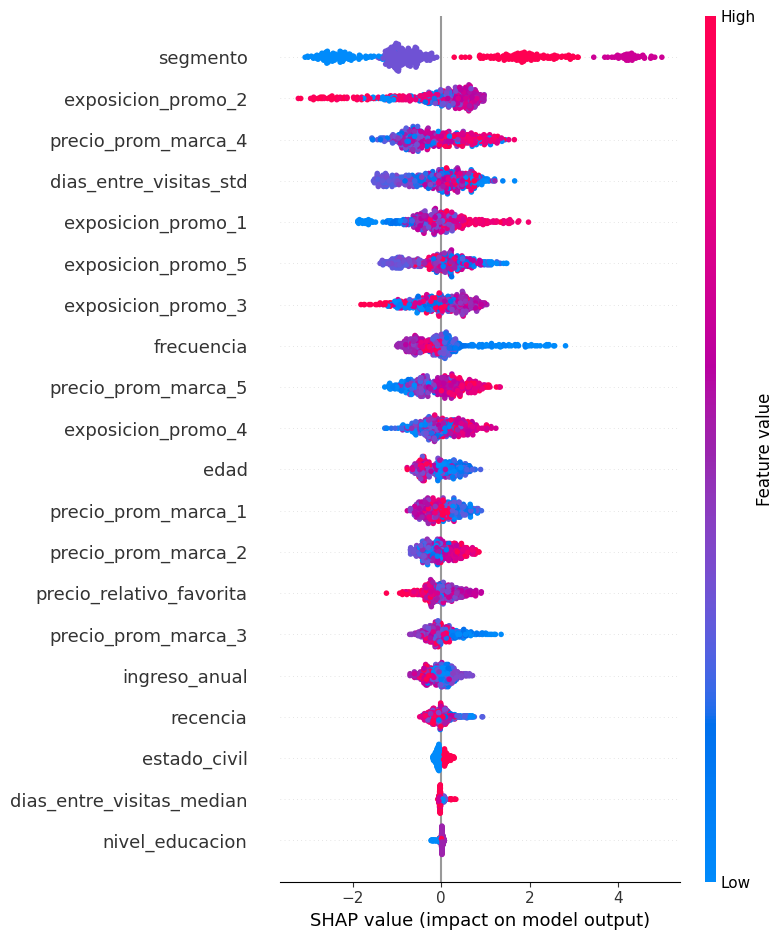
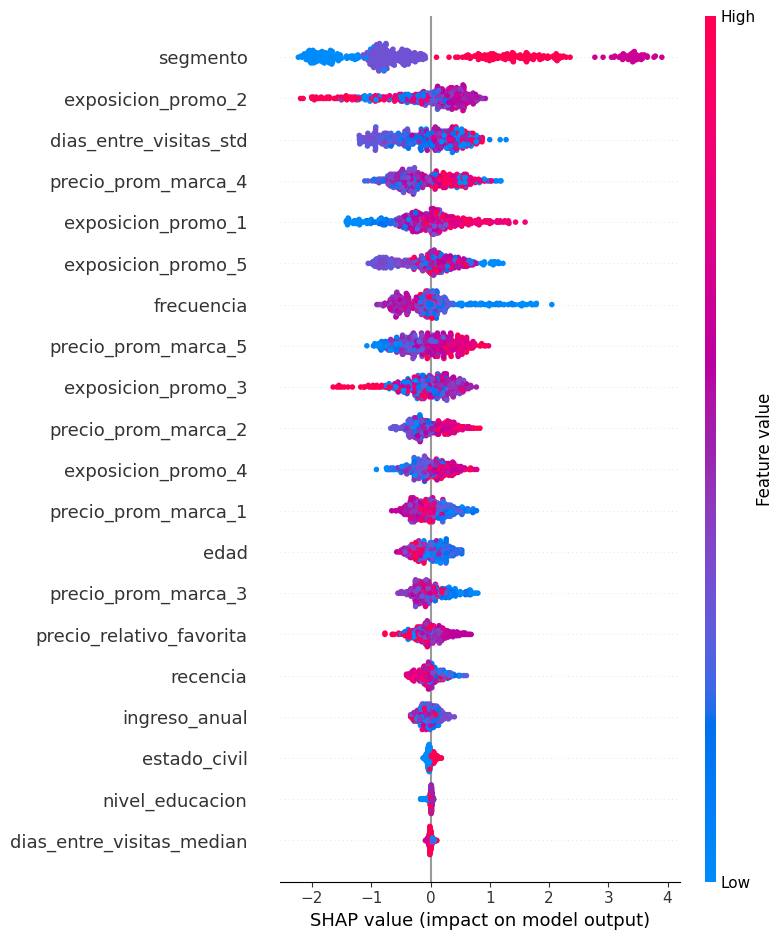
feat: add promo sensitivity features + fix supabase loader columns

diff --git a/app.py b/app.py
@@ -107,15 +107,36 @@ def load_dashboard_data():
 
 @st.cache_data(ttl=300)
 def load_transactions_data():
+    diagnostics = {
+        "source": None,
+        "supabase_error": None,
+        "supabase_count": None,
+        "local_exists": False,
+    }
     try:
-        res = supabase.table("compras_data").select("*").execute()
-        return pd.DataFrame(res.data)
-    except Exception:
+        res = supabase.table("compras_data").select("*", count="exact").limit(60000).execute()
+        diagnostics["source"] = "supabase"
+        diagnostics["supabase_count"] = res.count
+        df_supabase = pd.DataFrame(res.data)
+        if not df_supabase.empty:
+            return df_supabase, diagnostics
+    except Exception as e:
+        diagnostics["supabase_error"] = str(e)
         # Fallback local para desarrollo
         path = "data/compras_data.csv"
+        diagnostics["local_exists"] = os.path.exists(path)
         if not os.path.exists(path):
-            return pd.DataFrame()
-        return pd.read_csv(path)
+            return pd.DataFrame(), diagnostics
+        diagnostics["source"] = "local_csv"
+        return pd.read_csv(path), diagnostics
+
+    # Si Supabase responde pero con 0 filas, intentamos fallback local
+    path = "data/compras_data.csv"
+    diagnostics["local_exists"] = os.path.exists(path)
+    if os.path.exists(path):
+        diagnostics["source"] = "local_csv"
+        return pd.read_csv(path), diagnostics
+    return pd.DataFrame(), diagnostics
 
 @st.cache_data(ttl=300)
 def load_kpis(df: pd.DataFrame) -> dict:
@@ -241,10 +262,23 @@ if menu == "📊 Dashboard":
 elif menu == "📈 EDA":
     st.title("📈 Exploratory Data Analysis")
     st.markdown("Análisis narrativo del comportamiento del consumidor.")
-    df_tx = load_transactions_data()
+    df_tx, tx_diag = load_transactions_data()
 
     if df_tx.empty:
-        st.error("No se encontraron datos en `compras_data` (Supabase) ni en `data/compras_data.csv`.")
+        if tx_diag.get("supabase_error"):
+            st.error(
+                "No se pudo leer `compras_data` desde Supabase y tampoco existe `data/compras_data.csv` local.\n\n"
+                f"Detalle técnico: {tx_diag['supabase_error']}"
+            )
+        else:
+            st.error(
+                "La conexión a Supabase funciona, pero `compras_data` está vacía (`count=0`) "
+                "y no existe `data/compras_data.csv` local."
+            )
+        st.info(
+            "Verifica que cargaste `compras_data` en el mismo proyecto Supabase de `SUPABASE_URL` "
+            "y que el API key tenga permisos de lectura sobre esa tabla."
+        )
         st.stop()
 
     # INSIGHT ESTRATÉGICO PRINCIPAL

diff --git a/src/supabase_loader.py b/src/supabase_loader.py
@@ -78,7 +78,10 @@ def load_predictions(predictions_path: str = "data/predictions.csv"):
                 "recencia": int(row["recencia"]),
                 "dias_entre_visitas_median": float(row["dias_entre_visitas_median"]),
                 "descripcion": str(row["descripcion"]),
-                "embedding": row["embedding"]
+                "embedding": row["embedding"],
+                "sensibilidad_promo": float(row["sensibilidad_promo"]) if "sensibilidad_promo" in row else 0.0,
+                "es_sensible_promo": int(row["es_sensible_promo"]) if "es_sensible_promo" in row else 0,
+                "es_leal_marca": int(row["es_leal_marca"]) if "es_leal_marca" in row else 0
             })
         supabase.table("predictions").upsert(records).execute()
 

diff --git a/src/train_model.py b/src/train_model.py
@@ -109,7 +109,8 @@ def train_pipeline(features_path='data/client_features.csv'):
         return np.mean(scores)
         
     logging.info("Running Optuna tuning...")
-    study = optuna.create_study(direction='maximize')
+    sampler = optuna.samplers.TPESampler(seed=42)
+    study = optuna.create_study(direction='maximize', sampler=sampler)
     study.optimize(objective, n_trials=10)
     
     best_params = study.best_params
@@ -172,7 +173,6 @@ def train_pipeline(features_path='data/client_features.csv'):
     df['shap_top_feature'] = top_features
     df['score_propension'] = final_model.predict_proba(X)[:, 1]
 
-    # Señales de negocio para consultas del agente
     expo_cols = [c for c in df.columns if c.startswith('exposicion_promo_')]
     if expo_cols:
         df['sensibilidad_promo'] = df[expo_cols].mean(axis=1)